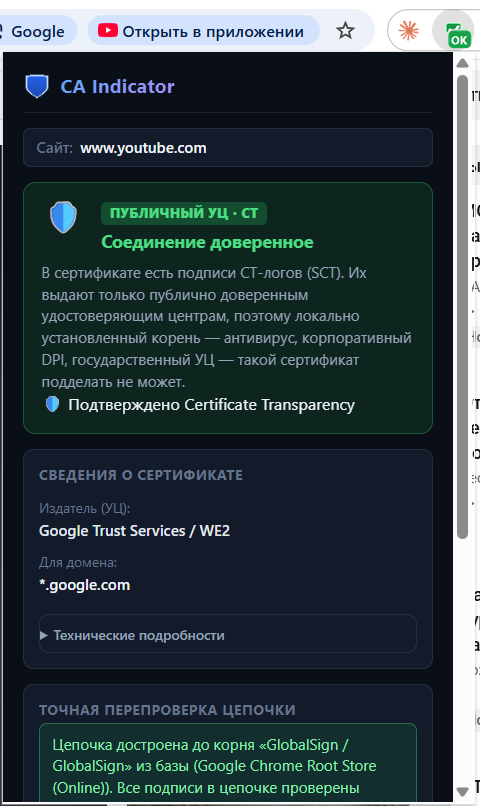
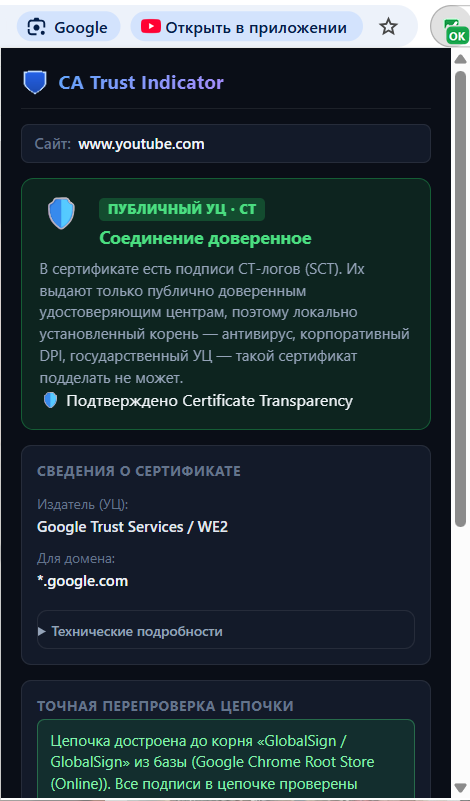
Новые скриншоты, пятое изображение карточки и переезд репозитория
Скриншоты пересняты после переименования: попап в них подписан «CA Trust
Indicator», а случай перехвата показывает исправленный в v1.7.3 заголовок
«БЕЗ CERTIFICATE TRANSPARENCY / Возможен перехват трафика» вместо неверного
«СЕРТИФИКАТ НЕ РАЗОБРАН».

Добавлено пятое состояние — страница без шифрования. Теперь в карточке магазина
все пять допустимых скриншотов: публичный УЦ, перехват, HTTP, недействительный
сертификат и разрешение вручную. В README таблица состояний тоже дополнена.

Репозиторий переехал на ca-trust-indicator: обновлены адреса в PRIVACY.md и
store/listing.md, архив теперь собирается как ca-trust-indicator-<версия>.zip.
Внутренние идентификаторы ca-indicator-root-store-update и <ca-indicator-root>
намеренно не тронуты: первый переживёт переименование как уже созданный будильник
у существующих пользователей, второй — просто имя хост-элемента в Shadow DOM.

Архив пересобран и проверен распаковкой: 33 файла, хеши совпадают.

diff --git a/build_store_zip.js b/build_store_zip.js
@@ -121,7 +121,7 @@ function buildZip(files) {
 const version = JSON.parse(fs.readFileSync(path.join(__dirname, 'manifest.json'), 'utf8')).version;
 const files = collect();
 const zip = buildZip(files);
-const out = path.join(__dirname, 'dist', 'ca-indicator-' + version + '.zip');
+const out = path.join(__dirname, 'dist', 'ca-trust-indicator-' + version + '.zip');
 
 fs.mkdirSync(path.join(__dirname, 'dist'), { recursive: true });
 fs.writeFileSync(out, zip);

diff --git a/README.md b/README.md
@@ -18,10 +18,10 @@
 
 Остальные состояния:
 
-| Публичный УЦ | Разрешено вами | Недействительный сертификат |
-|---|---|---|
-| <img src="screenshots/public-ca.png" alt="Сертификат публичного УЦ с подписями Certificate Transparency"> | <img src="screenshots/whitelisted.png" alt="Самоподписанный сертификат, разрешённый вручную для одного домена"> | <img src="screenshots/invalid-cert.png" alt="Сертификат, забракованный браузером"> |
-| Есть подписи CT, цепочка достроена до корня из Chrome Root Store | Ваш сервер: доверие выдано вручную и действует только на этом домене | Просрочен, самоподписан или выдан не на этот домен |
+| Публичный УЦ | Нет шифрования | Недействительный сертификат | Разрешено вами |
+|---|---|---|---|
+| <img src="screenshots/public-ca.png" alt="Сертификат публичного УЦ с подписями Certificate Transparency"> | <img src="screenshots/no-encryption.png" alt="Страница, открытая по HTTP без шифрования"> | <img src="screenshots/invalid-cert.png" alt="Сертификат, забракованный браузером"> | <img src="screenshots/whitelisted.png" alt="Самоподписанный сертификат, разрешённый вручную для одного домена"> |
+| Есть подписи CT, цепочка достроена до корня из Chrome Root Store | Страница по HTTP: данные идут открытым текстом | Просрочен, самоподписан или выдан не на этот домен | Ваш сервер: доверие выдано вручную и только на этом домене |
 
 ---
 

diff --git a/PRIVACY.md b/PRIVACY.md
@@ -60,11 +60,11 @@
 ## Открытый код
 
 Расширение распространяется под лицензией MIT, исходный код полностью открыт:
-https://github.com/anvarius94/ca-indicator
+https://github.com/anvarius94/ca-trust-indicator
 
 Любое утверждение из этого документа можно проверить по коду — расширения Chrome не
 компилируются, и установленную у себя копию вы можете прочитать целиком.
 
 ## Вопросы
 
-Через issues репозитория: https://github.com/anvarius94/ca-indicator/issues
+Через issues репозитория: https://github.com/anvarius94/ca-trust-indicator/issues
